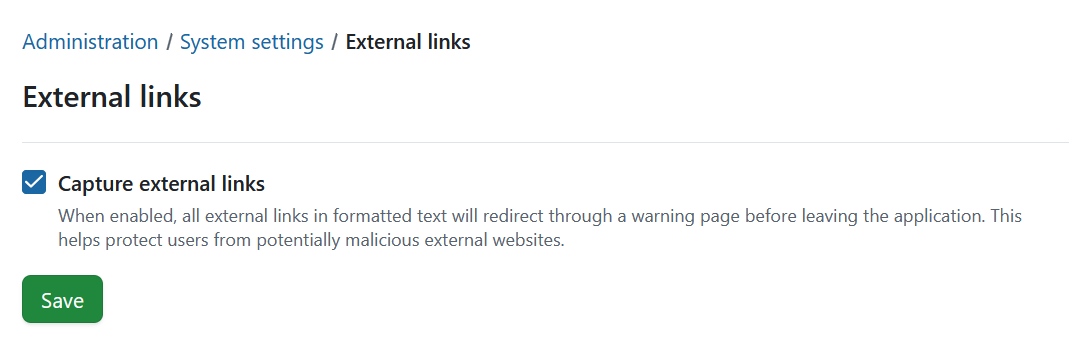
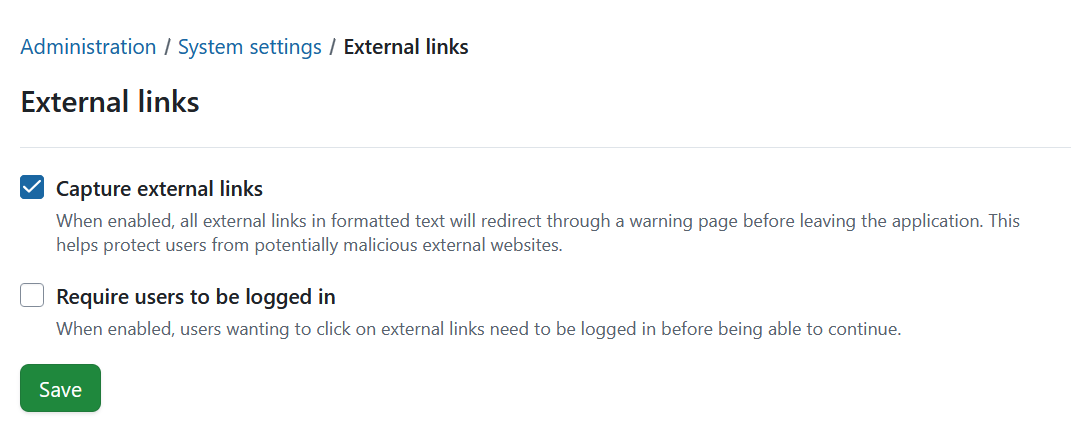
[#72754] 17.2 external links changes  https://community.openproject.org/work_packages/72754
[#72754] 17.2 external links changes

https://community.openproject.org/work_packages/72754

diff --git a/docs/system-admin-guide/system-settings/external-links/README.md b/docs/system-admin-guide/system-settings/external-links/README.md
@@ -12,13 +12,20 @@ You can configure how OpenProject handles **external links** in formatted text (
 
 ## Enable external link capture
 
-To enable the Capture external links setting navigate to *Administration ->System settings -> External links* and check the **Capture external links**  option. Don't forget to save your changes. 
+To enable the Capture external links setting navigate to *Administration → System settings → External links*. Here you can enable the following settings: 
+
+- **Capture external links**: when this option is turned on, all outbound links in formatted text will first lead to a warning page before users leave the application. 
+- **Require users to be logged in**: when enabled, users must sign in before they can proceed to any external website.
+
+Don't forget to save your changes. 
 
 ![Enable warning message for external links in OpenProject administration](openproject_system_admin_guide_external_links.png)
 
-Once enabled, OpenProject will redirect external links in formatted text through a warning page.
+Once *Capturing external links* is enabled, OpenProject will redirect external links in formatted text through a warning page. Here is an example of a warning page:
 
 ![Example of a warning message for an external link in OpenProject](openproject_system_admin_guide_external_links_warning_message.png)
+
+If the requirement to be logged in is activated and users are not logged in, they will first be redirected to the login page.
 
 ## What is an external link?
 